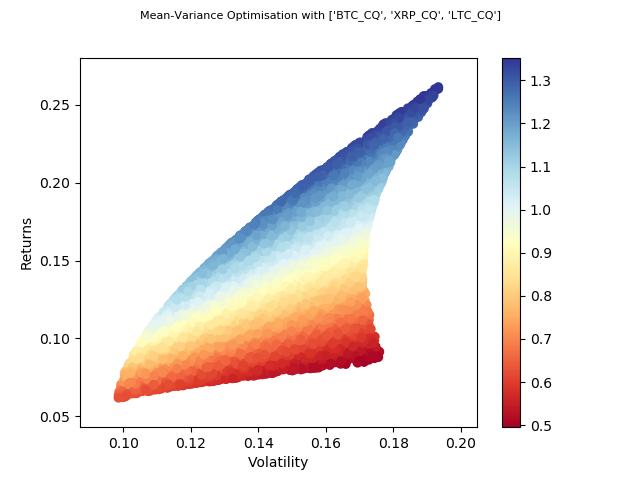
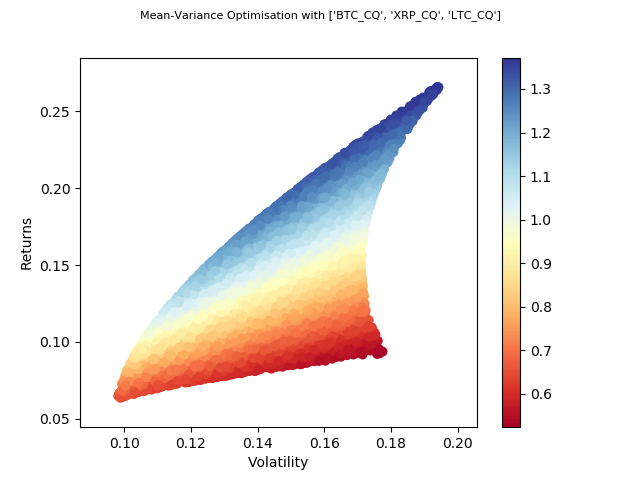
Debugged off by one error in time frame determination.

diff --git a/data_etl.py b/data_etl.py
@@ -8,7 +8,7 @@ import matplotlib.pyplot as plt
 #Retrieve the appropriate historical data for the current symbol from HuobiAPI
 def load_contract_historical(API, contract_symbol, duration, offset, period, contract_type, debug = False):
 
-	data_head = duration + offset
+	data_head = duration + offset + 1
 
 	if contract_type == "quarter":
 		#Postfix for data type determination
@@ -24,7 +24,7 @@ def load_contract_historical(API, contract_symbol, duration, offset, period, con
 
 	#API responds with 200
 	if response['status'] == "ok":
-		df = pd.DataFrame(response['data'][:duration])
+		df = pd.DataFrame(response['data'][:duration+1])
 	else:
 		#Return Error status
 		print("API request for {} returns {}, with message {}".format(contract_symbol, response['status'], response['msg']))
@@ -125,6 +125,7 @@ def optimise(data_df, num_sims = 25000, debug = False, output_dir = "."):
 	plt.colorbar()
 	plt.plot()
 	fig.suptitle(f'Mean-Variance Optimisation with {list(data_df.columns)}', fontsize=8)
-	fig.savefig('./output/graph.png')
+	fig.savefig(output_dir + '/graph.png')
+	print("Wrote graph to {}".format(output_dir + "/" + 'graph.png'))
 
 	return max_sharpe_port
